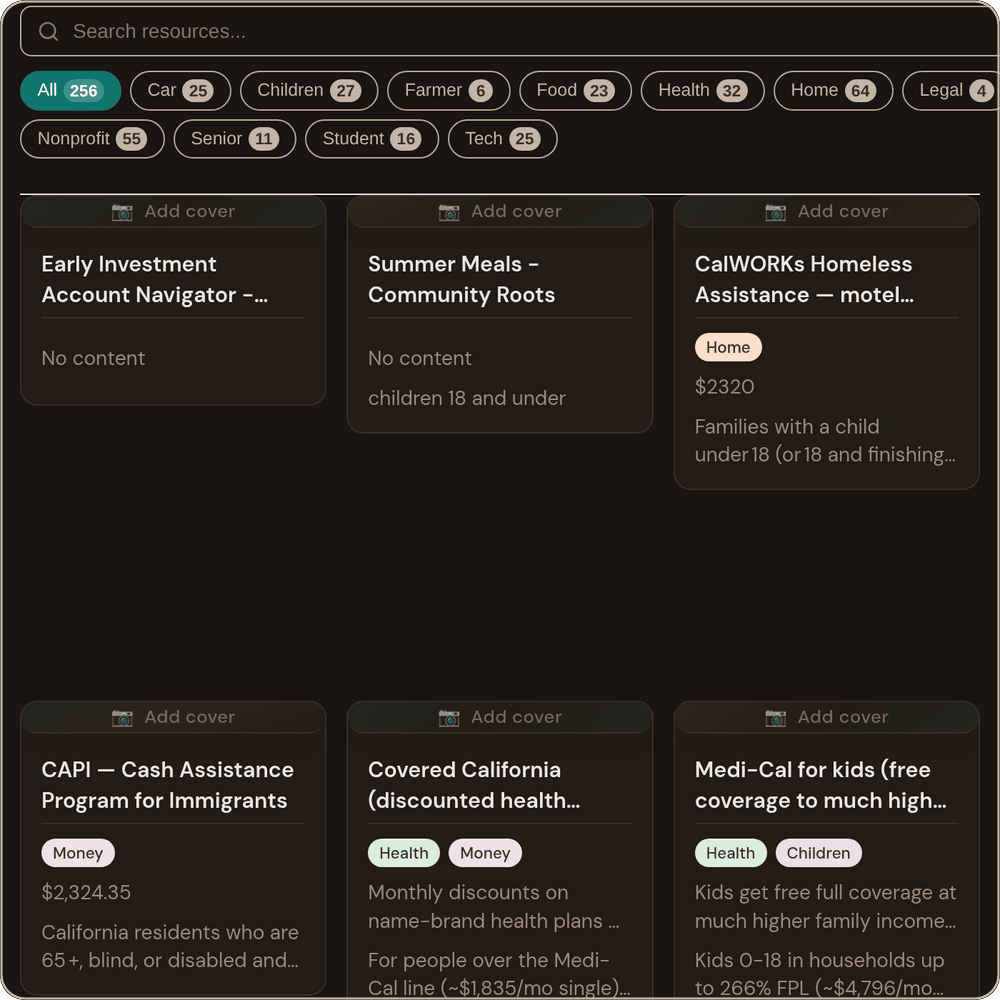
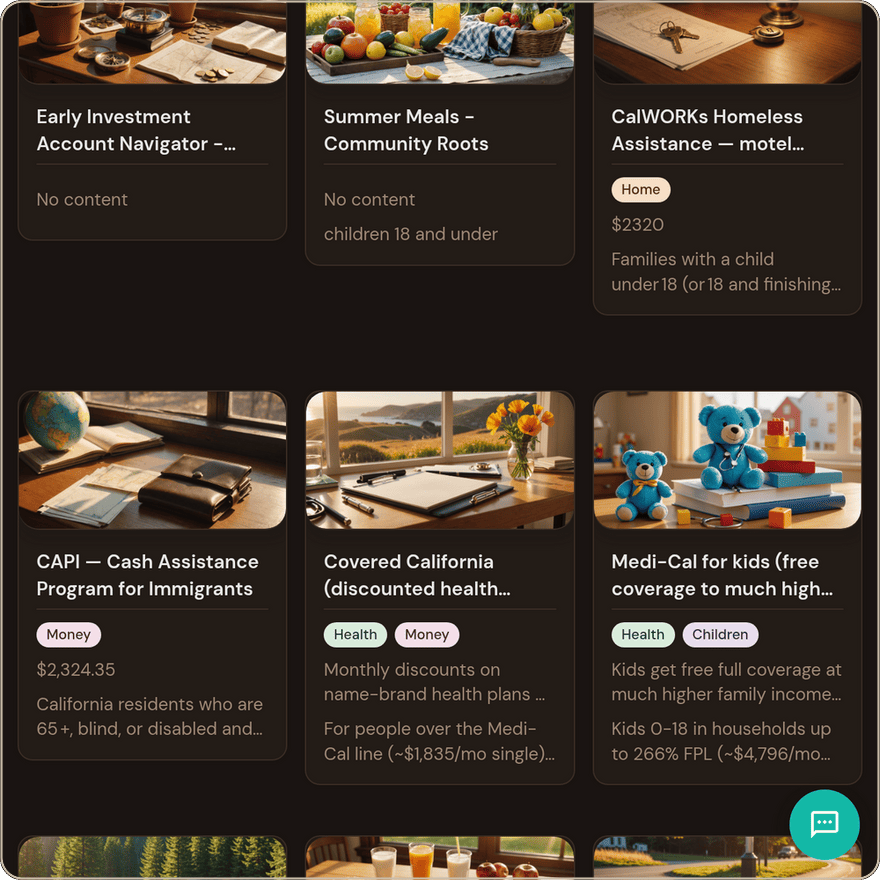
feat(newsletter): resources square recut with the 14 new covers live
Same 1000px-class square, now showing the cover-rich grid (Summer Meals
picnic, CalWORKs keys, Covered California poppies, Medi-Cal teddy bears)
instead of gradient placeholders. 880px/202 KB — photographic covers
resist palette quantization, payload note updated to ~590 KB.

diff --git a/newsletter/issues/2026-07-28-issue-01.md b/newsletter/issues/2026-07-28-issue-01.md
@@ -143,7 +143,9 @@ anytime with one click below — no hard feelings.*
       1000px live-DB crop w/ chips + real cards, per JP; candela = original
       store promo hero, per JP; discord = invite card w/ member counts;
       forage/starcharts = og cards @900px; icons 96px. Luna review applied
-      + JP edits 2026-07-18; total self-hosted payload ~475 KB)
+      + JP edits 2026-07-18; resources square recut with the 14 new covers
+      live; total self-hosted payload ~590 KB — photographic covers resist
+      compression, accepted over the ~500 KB aim)
 - [ ] **Discord screenshot fresh-ish**: member counts (22 members / 4
       online at capture) change — recapture near send if it looks stale
 - [ ] **Featured project**: stars.realm.watch loads (verified 200 on